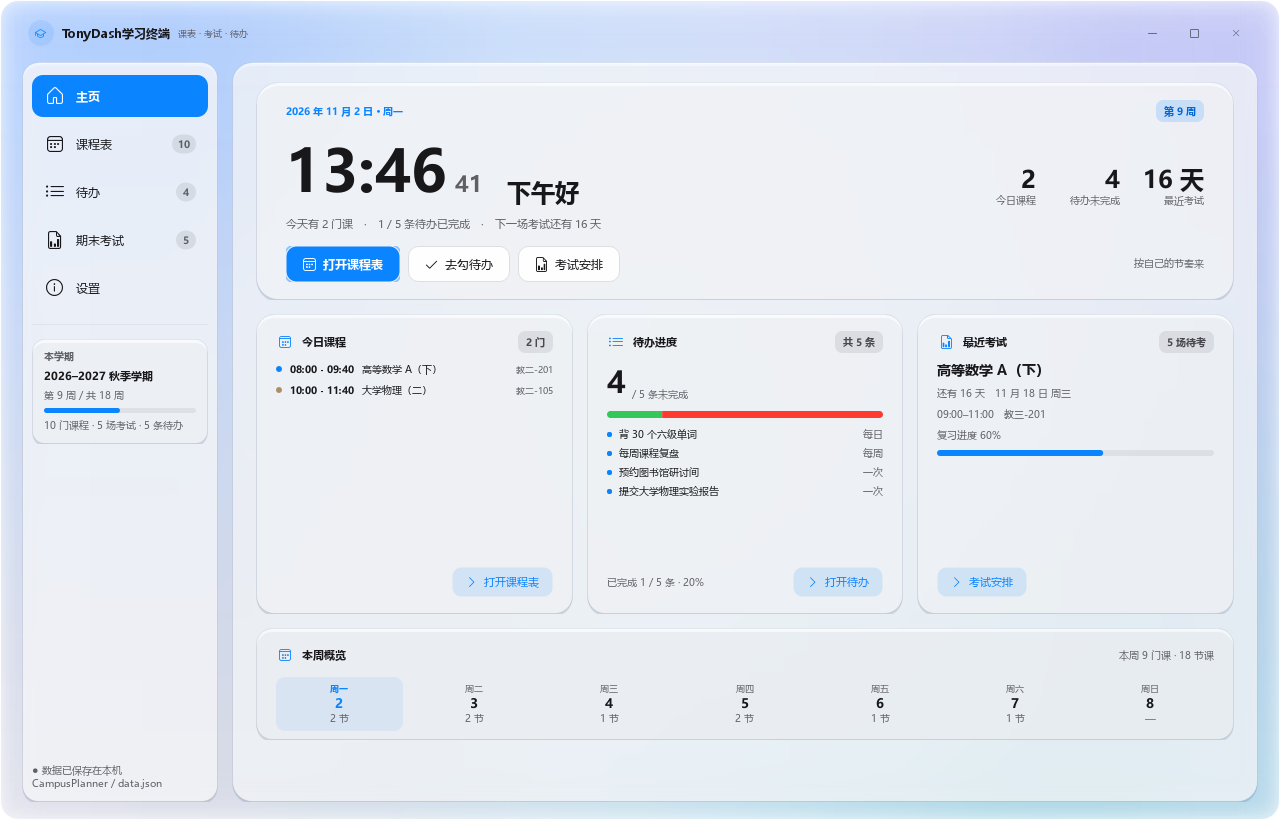
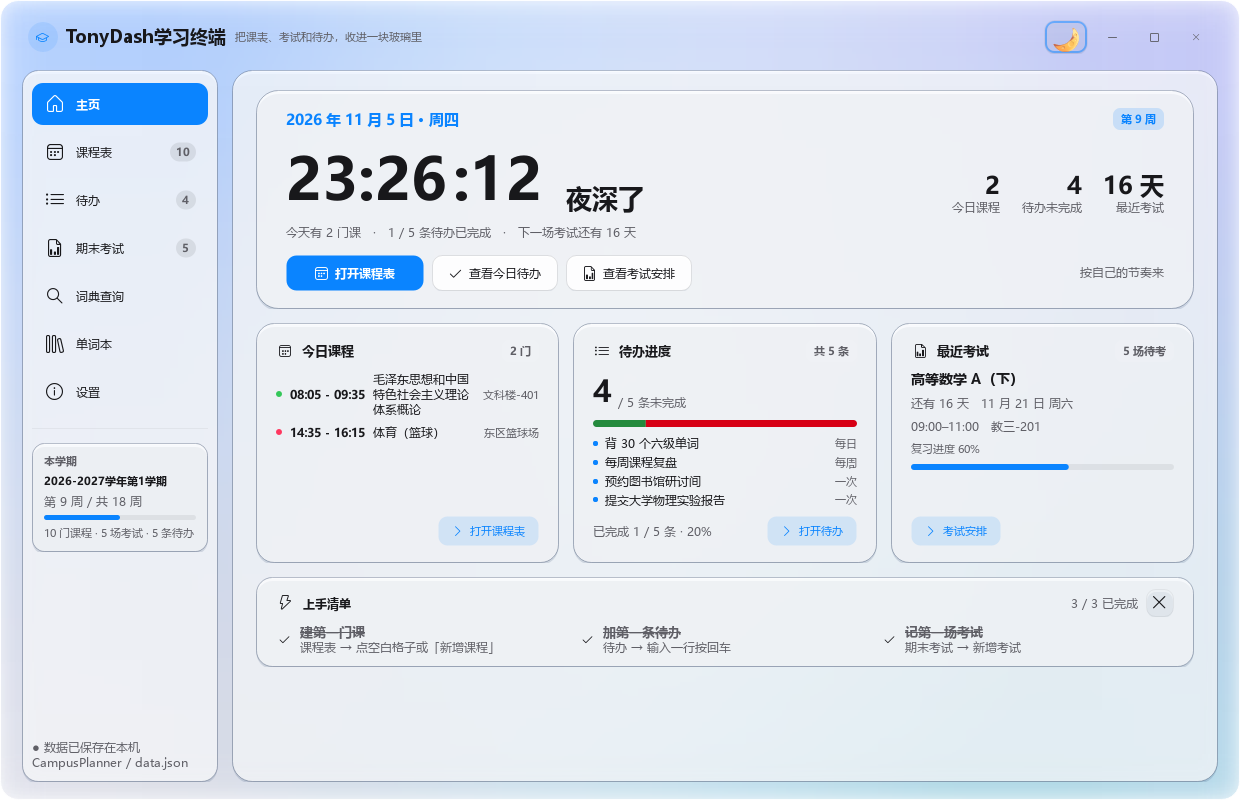
docs: README 截图全面更新到 Beta 1.5 + 安装包新行为说明
- 新增 tests/make_screens.py：离屏渲染 10 张截图（主页/课表/待办/考试/
  导入/词典/单词本/设置/关于/更新日志）直接写入 assets/screens
- assets/screens：home/schedule/todo/exams/settings/about/changelog 全部
  替换为 Beta 1.5 实际界面（旧图还是「课表·考试·待办」副标题、无新导航），
  新增 import/lookup/wordbook 三张新功能页
- README：顶部展示 5 张带说明的截图；安装包章节补覆盖安装询问行为与
  TonyDash_StudyOS 目录保护说明；卸载数据说明补单词本；项目结构与命令
  清单收录 make_screens.py

diff --git a/tests/make_screens.py b/tests/make_screens.py
@@ -1,0 +1,120 @@
+"""生成 README 与 assets/screens 用的界面截图（离屏渲染）。
+
+用法：py tests/make_screens.py
+产物直接写入 assets/screens/，含 Beta 1.5 的全部新页面。
+"""
+from __future__ import annotations
+
+import os
+import sys
+from pathlib import Path
+
+ROOT = Path(__file__).resolve().parent.parent
+os.environ.setdefault("QT_QPA_PLATFORM", "offscreen")
+os.environ["APPDATA"] = str(ROOT / "tests" / "_shots_appdata")
+sys.path.insert(0, str(ROOT))
+
+from PySide6.QtCore import QDate  # noqa: E402
+from PySide6.QtWidgets import QApplication  # noqa: E402
+
+from campus_planner import core, theme  # noqa: E402
+
+OUT = ROOT / "assets" / "screens"
+
+
+def wait(app, n=10):
+    for _ in range(n):
+        app.processEvents()
+
+
+def main():
+    app = QApplication(sys.argv)
+    theme.load_fonts()
+    app.setFont(theme.font(13))
+    theme.apply_global_qss(force=True)
+
+    import shutil
+    shutil.rmtree(ROOT / "tests" / "_shots_appdata", ignore_errors=True)
+
+    from campus_planner.main import MainWindow
+
+    win = MainWindow()
+    win.resize(1240, 800)
+    win.show()
+    wait(app)
+    # 示例数据：课程、考试、待办齐全，截图才有内容
+    win.data = core.sample_data()
+    win.data.settings.onboarded = True
+    win.week = core.current_week(
+        win.data.settings.term_start, win.data.settings.total_weeks)
+    core.save_data(win.data)
+    win._refresh_pages()
+    wait(app)
+
+    # 0 主页（时间屏幕 + Beta 1.5 标题理念副标题）
+    win.go(0)
+    wait(app, 14)
+    win.grab().save(str(OUT / "home.png"))
+    print("home.png")
+
+    # 1 课程表（含「导入课表」按钮）
+    win.go(1)
+    wait(app, 14)
+    win.grab().save(str(OUT / "schedule.png"))
+    print("schedule.png")
+
+    # 2 待办
+    win.go(2)
+    wait(app, 14)
+    win.grab().save(str(OUT / "todo.png"))
+    print("todo.png")
+
+    # 3 期末考试
+    win.go(3)
+    wait(app, 14)
+    win.grab().save(str(OUT / "exams.png"))
+    print("exams.png")
+
+    # 4 课表导入（直接实例化页面，不依赖文件解析）
+    win.go(4)
+    wait(app, 14)
+    win.grab().save(str(OUT / "import.png"))
+    print("import.png")
+
+    # 5 词典查询
+    win.go(5)
+    wait(app, 14)
+    win.grab().save(str(OUT / "lookup.png"))
+    print("lookup.png")
+
+    # 6 单词本
+    win.go(6)
+    wait(app, 14)
+    win.grab().save(str(OUT / "wordbook.png"))
+    print("wordbook.png")
+
+    # 7 设置
+    win.go(7)
+    wait(app, 14)
+    win.grab().save(str(OUT / "settings.png"))
+    print("settings.png")
+
+    # 关于弹窗
+    from campus_planner.about_dialogs import AboutDialog, ChangelogDialog
+    d = AboutDialog(win)
+    d.show(); wait(app, 12)
+    d.grab().save(str(OUT / "about.png")); d.close()
+    print("about.png")
+
+    d = ChangelogDialog(win)
+    d.show(); wait(app, 12)
+    d.grab().save(str(OUT / "changelog.png")); d.close()
+    print("changelog.png")
+
+    win.close()
+    shutil.rmtree(ROOT / "tests" / "_shots_appdata", ignore_errors=True)
+    print("ALL DONE ->", OUT)
+
+
+if __name__ == "__main__":
+    main()

diff --git a/README.md b/README.md
@@ -7,7 +7,23 @@
 
 ![时间屏幕主页](assets/screens/home.png)
 
+*主页：标题右侧是产品理念小字，侧栏含词典查询 / 单词本入口*
+
 ![课程表](assets/screens/schedule.png)
+
+*课程表：顶栏「导入课表」一键进入识别导入*
+
+![词典查询](assets/screens/lookup.png)
+
+*词典查询：查单词 / 翻译双选项卡，百分比进度条*
+
+![单词本](assets/screens/wordbook.png)
+
+*单词本：搜索、排序、备注、导出 / 导入，发音离线可听*
+
+![课表导入](assets/screens/import.png)
+
+*课表导入：Excel / CSV / PDF / 截图 / 粘贴文本，勾选后一键入库*
 
 ## 功能
 
@@ -83,8 +99,10 @@
 
 - 安装包内置 Python、Qt 与 VC++ 运行库，目标电脑**不需要安装 Python 或任何开发环境**。
 - 安装向导包含中文用户协议；可自行选择安装目录。
+- 覆盖安装：检测到旧版本时会询问是否覆盖，点「是」继续向导（数据保留）、点「否」退出安装。
+- 目录保护：所选安装目录不为空（也不是旧版本安装位置）时，默认安装到其下的 `TonyDash_StudyOS` 子文件夹，避免把程序文件散落进现有目录。
 - 默认创建桌面快捷方式，并默认勾选「开机自动启动」；两项都可以在组件页取消。
-- 卸载时删除程序与快捷方式，保留 `%APPDATA%\CampusPlanner` 中的课程/考试/待办数据，避免误删。
+- 卸载时删除程序与快捷方式，保留 `%APPDATA%\CampusPlanner` 中的课程/考试/待办与单词本数据，避免误删。
 - 静默安装：`TonyDash学习终端-Beta1.5-Setup.exe /S /D=D:\你的路径`（`/D` 必须是最后一个参数）。
 
 ### 直接运行打包版
@@ -189,6 +207,7 @@ tests/
   test_gui.py               33 项离屏 GUI 冒烟测试
   test_isolation.py         2 项数据沙箱守卫（测试不得写真实用户目录）
   preview_app.py            渲染页面截图
+  make_screens.py           生成 assets/screens 的 README 截图
   preview_style.py          组件样式样张
 update log/                 逐版本更新日志 txt
 assets/                     应用图标、GitHub 头像 / Logo 与界面截图
@@ -205,6 +224,7 @@ py -m unittest discover -s tests -v
 
 ```bat
 py tests/preview_app.py     :: 输出 tests/_shots/page_*.png
+py tests/make_screens.py    :: 重新生成 assets/screens 下的 README 截图
 py main.py --selftest       :: 离屏渲染一帧，输出 selftest.png
 ```
 
